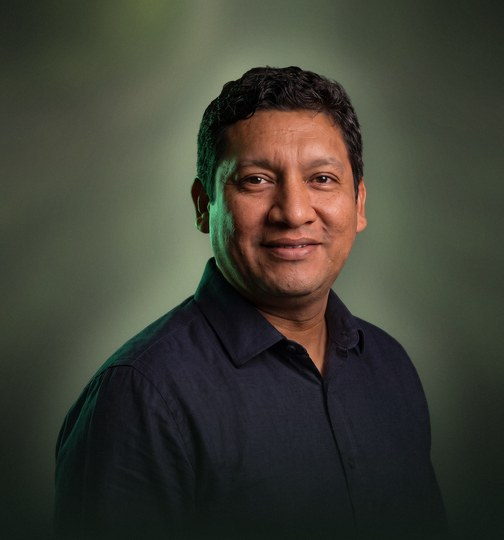
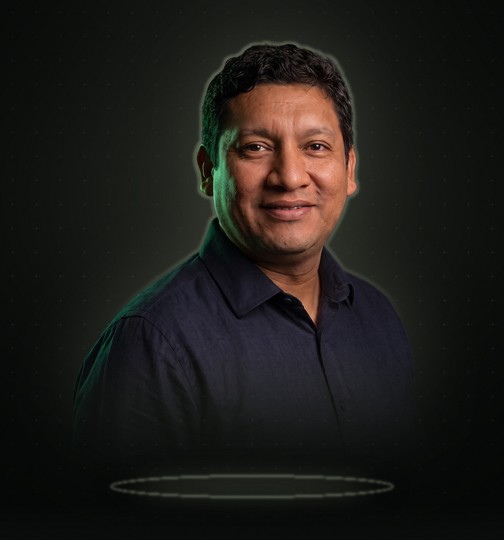
Mailing: expositores flotando sobre fondo negro

diff --git a/email/confirmacion.html b/email/confirmacion.html
@@ -229,21 +229,21 @@
     <h2 class="f" style="margin:0 0 18px;font-family:'Poppins',Arial,sans-serif;font-size:22px;line-height:28px;font-weight:600;color:#EBE9E3;">Te lo explican quienes lo implementan</h2>
     <table role="presentation" width="100%" cellpadding="0" cellspacing="0" border="0"><tr>
       <td class="stack stack-pad" width="50%" valign="top" style="padding-right:8px;">
-        <table role="presentation" width="100%" cellpadding="0" cellspacing="0" border="0" style="border:1px solid #24402F;border-radius:18px;background:#121B16;">
+        <table role="presentation" width="100%" cellpadding="0" cellspacing="0" border="0" bgcolor="#0A0D0B" style="border:1px solid #1E2A23;border-radius:18px;background:#0A0D0B;">
           <tr><td class="full" style="padding:0;"><img src="https://jpmenenm.github.io/webinar-sapb1-v26/email/img/speaker-antonio.jpg" width="252" height="270" alt="Antonio Sánchez" style="width:100%;max-width:252px;height:auto;border-radius:18px 18px 0 0;"></td></tr>
           <tr><td class="f" style="padding:16px 18px 18px;font-family:'Poppins',Arial,sans-serif;">
             <div style="font-size:17px;line-height:22px;color:#EBE9E3;font-weight:600;">Antonio Sánchez</div>
-            <div style="font-size:12px;line-height:18px;color:#5DDB88;margin:2px 0 8px;">Jefe de Desarrollo · DOT Solutions</div>
+            <div style="font-size:12px;line-height:18px;color:#5DDB88;margin:2px 0 8px;">Jefe de Desarrollo</div>
             <div style="font-size:12px;line-height:18px;color:#9AA197;">Ingeniero en informática con más de 10 años de experiencia. Lidera desarrollo y soporte TI: add-ons, APIs e integraciones sobre SAP Business One.</div>
           </td></tr>
         </table>
       </td>
       <td class="stack" width="50%" valign="top" style="padding-left:8px;">
-        <table role="presentation" width="100%" cellpadding="0" cellspacing="0" border="0" style="border:1px solid #24402F;border-radius:18px;background:#121B16;">
+        <table role="presentation" width="100%" cellpadding="0" cellspacing="0" border="0" bgcolor="#0A0D0B" style="border:1px solid #1E2A23;border-radius:18px;background:#0A0D0B;">
           <tr><td class="full" style="padding:0;"><img src="https://jpmenenm.github.io/webinar-sapb1-v26/email/img/speaker-carlos.jpg" width="252" height="270" alt="Carlos Gonsales" style="width:100%;max-width:252px;height:auto;border-radius:18px 18px 0 0;"></td></tr>
           <tr><td class="f" style="padding:16px 18px 18px;font-family:'Poppins',Arial,sans-serif;">
             <div style="font-size:17px;line-height:22px;color:#EBE9E3;font-weight:600;">Carlos Gonsales</div>
-            <div style="font-size:12px;line-height:18px;color:#5DDB88;margin:2px 0 8px;">Gerente Comercial SAP B1 · DOT Solutions</div>
+            <div style="font-size:12px;line-height:18px;color:#5DDB88;margin:2px 0 8px;">Gerente Comercial SAP B1</div>
             <div style="font-size:12px;line-height:18px;color:#9AA197;">Consultor certificado, trabaja con SAP Business One desde 2006. Fue tester de la versión 9.1 en el Acceptance Test de SAP en Shanghái.</div>
           </td></tr>
         </table>
